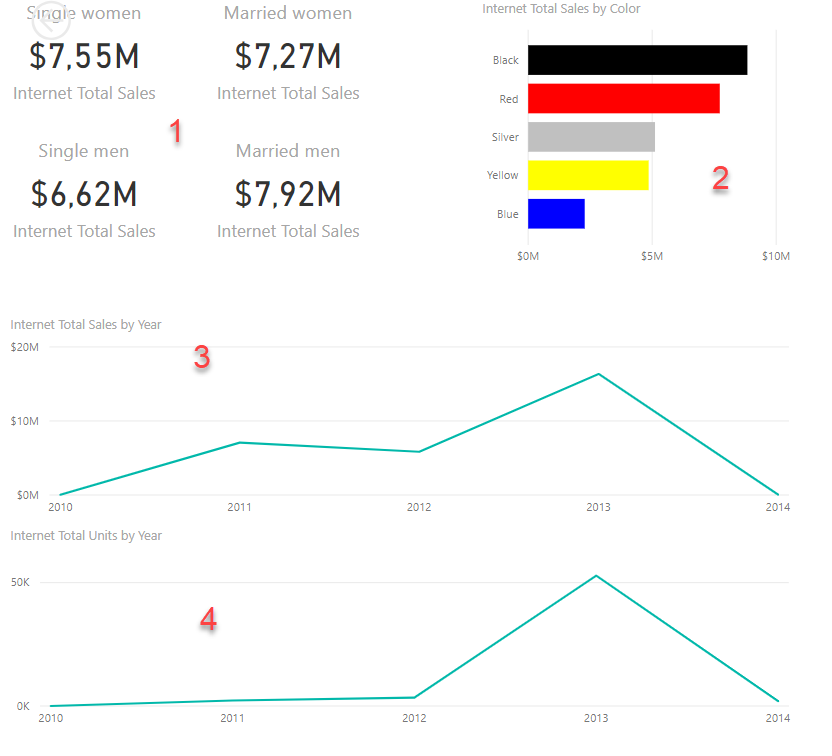
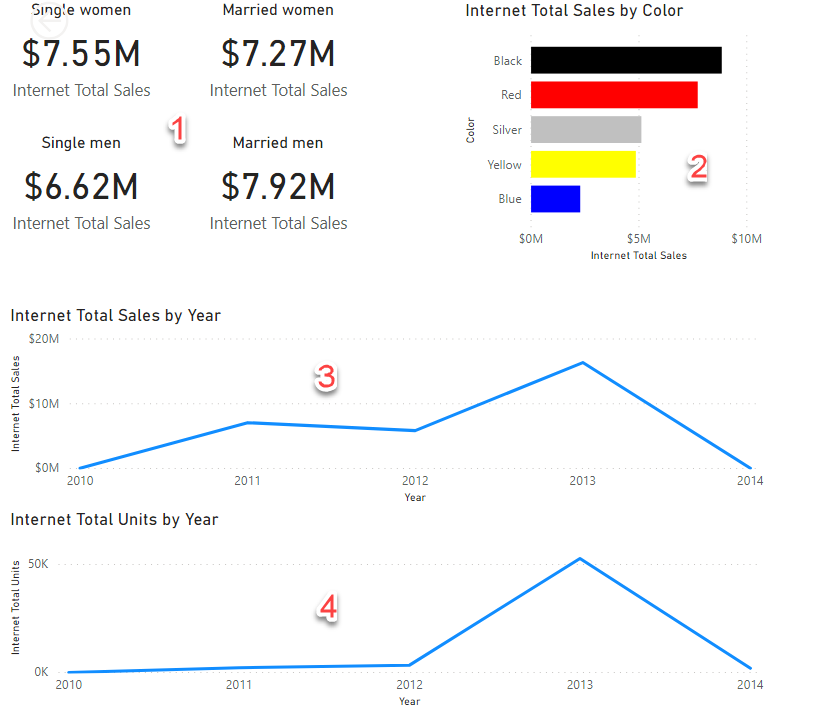
Module 5 bijgewerkt voor nieuwste Power BI. Screenshots geupdatet. Instructies nagelopen URL's bijgewerkt.

diff --git a/05-drillthrough/05-drillthrough.md b/05-drillthrough/05-drillthrough.md
@@ -1,18 +1,20 @@
 # Drillthrough
 
-In [module 3](../03-visuals-and-interaction/03-visuals-and-interaction.md) hebben we al gekeken naar de *drilldown*: het "inzoomen" op lagere niveaus van de data.
+Binnen **Adventure Works** is je leidinggevende bijzonder te spreken over de geografische mogelijkheden van Power BI. Het is echter niet heel handig om alle geografische achtergrondinformatie over een regio in elk rapport te herhalen. Het liefst zou ze bij bijvoorbeeld een uitschieter in verkopen in een bepaald land willen kunnen "doorklikken" naar alle informatie van dat land. Bijvoorbeeld de trend in verkopen de afgelopen jaren, het aantal vestigingen in dat land, etc..
 
-De meeste Business Intelligence-tools kennen nog een tweede manier om de data aan een nader onderzoek te onderwerpen: de *drillthrough*. Dit houdt in de basis in dat je een getal onder de loep neemt op een andere pagina of in een ander rapport. Op deze manier kun je eenvoudig de context bekijken - bijvoorbeeld van de verkopen binnen een bepaald land:
+Dit "doorklikken" wordt in een BI tool **drillthrough** genoemd. In [module 3](../03-visuals-and-interaction/03-visuals-and-interaction.md) hebben we al gekeken naar de *drilldown*. De *drillthrough* houdt in de basis in dat je een getal onder de loep neemt op een andere pagina of in een ander rapport. Op deze manier kun je eenvoudig de context bekijken - bijvoorbeeld van de verkopen binnen een bepaald land:
 
-![Voorbeeld van drillthrough](img/01-drillthrough-sample.gif)
+![Voorbeeld van een drillthrough - gebruiker rechtsklikt op tabblad "Page 2"  op het land " Germany](img/01a-drillthrough-sample-step1.png)
+![Voorbeeld van een drillthrough - gebruiker kiest in context menu voor de optie "Drill through", daarna "Country Details"](img/01a-drillthrough-sample-step2.png)
+![Voorbeeld van een drillthrough - Het tabblad "Country Details" opent, nu gefilterd op basis van Germany](img/01a-drillthrough-sample-step3.png)
 
 ## Drillthrough binnen een rapport
 
 Wanneer je een drillthrough binnen een rapport mogelijk wilt maken, moet je de volgende zaken regelen:
 
-1. Er moet een pagina zijn wat het *doel* van je drillthrough is. 
+1. Er moet een pagina zijn wat het *doel* van je drillthrough is.
    * In het voorbeeld hierboven: de pagina "Country Details"
-2. Op deze pagina moet je een "drillthrough filter" instellen. In het voorbeeld hierboven is dit de naam van het land: wanneer je die ergens in het rapport tegenkomt, kun je in twee klikken naar de drillthrough-pagina navigeren, wat dan automatisch gefilterd is op de betreffende categorie. 
+2. Op deze pagina moet je een "drillthrough filter" instellen. In het voorbeeld hierboven is dit de naam van het land: wanneer je die ergens in het rapport tegenkomt, kun je in twee klikken naar de drillthrough-pagina navigeren, wat dan automatisch gefilterd is op de betreffende categorie.
    * In het voorbeeld hierboven is het *drillthrough* filter `Country Region Name`.
 
 ### Drillthrough instellen in je rapport
@@ -22,13 +24,14 @@ Wanneer je een drillthrough binnen een rapport mogelijk wilt maken, moet je de v
 * Voeg hierop een *map visual* toe (![Icon of map visual](img/02-map-visual.png)). Configureer deze als volgt:
   * **Location**: **State Province Name** (tabel *Geography*)
   * **Size**: **Internet Total Sales** (tabel *Internet Sales*)
-* Voeg nu ook een zgn. "Treemap" toe voor *Internet Total Sales by Category*:  
+* Voeg nu ook een zgn. "Treemap" toe voor *Internet Total Sales by Product Category Name*:
+  * Gebruik hier het veld **Product Category Name** uit de tabel **Product Category**
 ![Voorbeeld treemap](img/03-treemap.png)
 * Klik ergens op het canvas zodat er geen *visual* meer geselecteerd is.
 * Onder het kopje **Drillthrough** vind je nu een vakje "Add drillthrough filters here". Sleep hier het veld **Country Region Name** heen (tabel *Geography*)
 * Ga terug naar de pagina *Page 2*, en rechtsklik op één van de landen in de grafiek. Als het goed is heb je nu een submenu *Drillthrough* naar de *Country Details*-pagina
 
-Om het af te maken, kun je nu de **Country Details** pagina verbergen (rechtsklik op de tab). Publiceer de pagina naar een workspace, publiceer deze als app, en bekijk het resultaten in de app.
+Om het af te maken, kun je nu de **Country Details** pagina verbergen (rechtsklik op de tab, kies **Hide Page**). Publiceer de pagina naar een workspace, publiceer deze als app, en bekijk het resultaten in de app.
 
 Probeer nu zelf een tweede drillthrough-pagina "Product Category Details" aan te maken waarbij je alle gegevens binnen een productcategorie op een rij zet. Filter op basis van het veld **Product Category Name** (tabel *Product Category*). Geef de volgende zaken weer:
 
@@ -50,20 +53,20 @@ Wanneer je drillthrough pagina correct werkt, zou je vanaf pagina "Product Sales
 
 *Drillthrough* is ook mogelijk tussen meerdere rapporten. Op deze manier kun meerdere rapporten binnen je workspace gebruik maken van de drillthrough-functionaliteit in jouw rapport.
 
-In [deze video](https://www.youtube.com/watch?v=OcZr_70OGPo) legt Patrick LeBlanc uit hoe dit werkt. Bekijk de video (in de training kunnen we deze ook gezamenlijk bekijken wanneer iedereen de bovenstaande oefening klaar heeft), en probeer vervolgens een drillthrough tussen meerdere rapporten als volgt werkend te krijgen:
+In de video [http://bit.ly/pbi-drillthrough](http://bit.ly/pbi-drillthrough) legt Patrick LeBlanc uit hoe dit werkt. Bekijk de video, en probeer vervolgens een drillthrough tussen meerdere rapporten als volgt werkend te krijgen. (Het bekijken van de video is niet strikt noodzakelijk - alle stappen staan hieronder - maar helpt je wel om het concept helder te krijgen)
 
 * Het rapport waar we tot nu toe mee werkten is de *source* (deze heeft het overzicht, hier moet alles vandaan komen).
 * Maak een nieuw rapport dat verbinding maakt met Analysis Services:
-  * `asazure://westeurope.asazure.windows.net/bitrainer`
+  * `asazure://westeurope.asazure.windows.net/bitrainerpbi`
   * Credentials:
-    * Username: `student@bitrainer.nl`
+    * Username: *je persoonlijke BITrainer.nl-gebruikersaccount*
     * Password: `BITrainer.nl`
 
 Maak in dit rapport een drillthrough filter per **Year** (tabel *Date*, in de hierarchy *Calendar*). Let erop dat je hier instelt dat je **Year** gebruiken moet als *categorie*:
 
 ![Use calendar year as drillthrough per category](img/04-calendar-year-drillthrough-as-category.png)
 
-Je kunt vervolgens in het lijstje onder deze instelling een jaar kiezen dat je *nu* wilt weergeven. Dit wordt uiteraard vervangen zodra je een drillthrough doet, maar dit geeft je een beter gevoel over hoe de cijfers eruit zou zien bij een drillthrough van (bijvoorbeeld) 2012.
+Je kunt vervolgens in het lijstje onder deze instelling een jaar kiezen dat je *nu* wilt weergeven (feitelijk filter je de data op "alleen de data van jaar X"). Zodra je via een *drillthrough* op dit rapport belandt, wordt dit filter vervangen door het jaartal waarmee je de drillthrough uitvoert. Het toevoegen van dit filter geeft je echter een beter gevoel over hoe de cijfers eruit zou zien bij een drillthrough van (bijvoorbeeld) 2012.
 
 Vul vervolgens het rapport met inzichten over een jaar:
 
@@ -94,7 +97,7 @@ Standaard heeft de drillthrough de naam `Page1 [naam-van-oorspong-rapport]`. Zor
 
 ### Onzichtbare drillthrough-rapporten
 
-Wanneer je in de app kijkt, opent zich standaard het eerste rapport dat je ooit publiceerde. Je kunt echter wisselen tussen alle items in een app, door de knop "Inhoudslijst weergeven" / "Show content list":
+Wanneer je in de app kijkt, opent zich standaard het eerste rapport dat je ooit publiceerde. Aan de linkerzijde zie je echter alle items (rapporten en dashboards) die aanwezig zijn in een app:
 
 ![Show content list](img/08-show-content-list.png)
 
